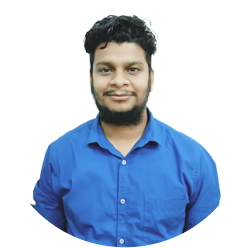
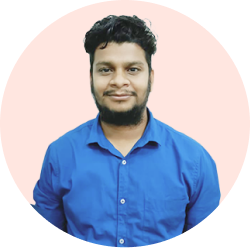
changes in our team page

diff --git a/components/OurTeam/OurTeamBanner/OurTeamBanner.module.css b/components/OurTeam/OurTeamBanner/OurTeamBanner.module.css
@@ -1,7 +1,7 @@
 .ourTeamBannermainboxes {
   height: 110vh;
   border: 1px solid transparent;
-  background-image: url("/Images/OurTeamPhotos/background1.png");
+  background-image: url("/Images/OurTeamPhotos/background.png");
   background-repeat: no-repeat;
   background-size: 100% 100%;
   /* border: 2px solid red; */

diff --git a/components/OurTeam/MainOurTeamCards/OurLeaders/OurLeaders.jsx b/components/OurTeam/MainOurTeamCards/OurLeaders/OurLeaders.jsx
@@ -22,7 +22,7 @@ export default function OurLeaders({ Onblogdata }) {
                 width={"0"}
                 height={"0"}
                 sizes={"100vw"}
-                style={{ width: "60%", height: "40%" }}
+                style={{ width: "70%", height: "50%" }}
               />
             </div>
 

diff --git a/components/OurTeam/MainOurTeamCards/MainOurTeamCards.module.css b/components/OurTeam/MainOurTeamCards/MainOurTeamCards.module.css
@@ -10,7 +10,7 @@
 .ourDevProcessContainer > div {
   width: 90%;
   margin: auto;
-  background-color: #f1f1f1;
+  background-color: white;
   margin-top: -8%;
   /* border: 2px solid lightgray; */
   /* text-align: center; */

diff --git a/components/OurTeam/MainOurTeamCards/OurLeaders/OurLeaders.module.css b/components/OurTeam/MainOurTeamCards/OurLeaders/OurLeaders.module.css
@@ -22,7 +22,7 @@
 }
 
 .ourLeadersdiv {
-  width: 20%;
+  width: 25%;
   border-radius: 10px;
   height: auto;
   margin-top: 2%;
